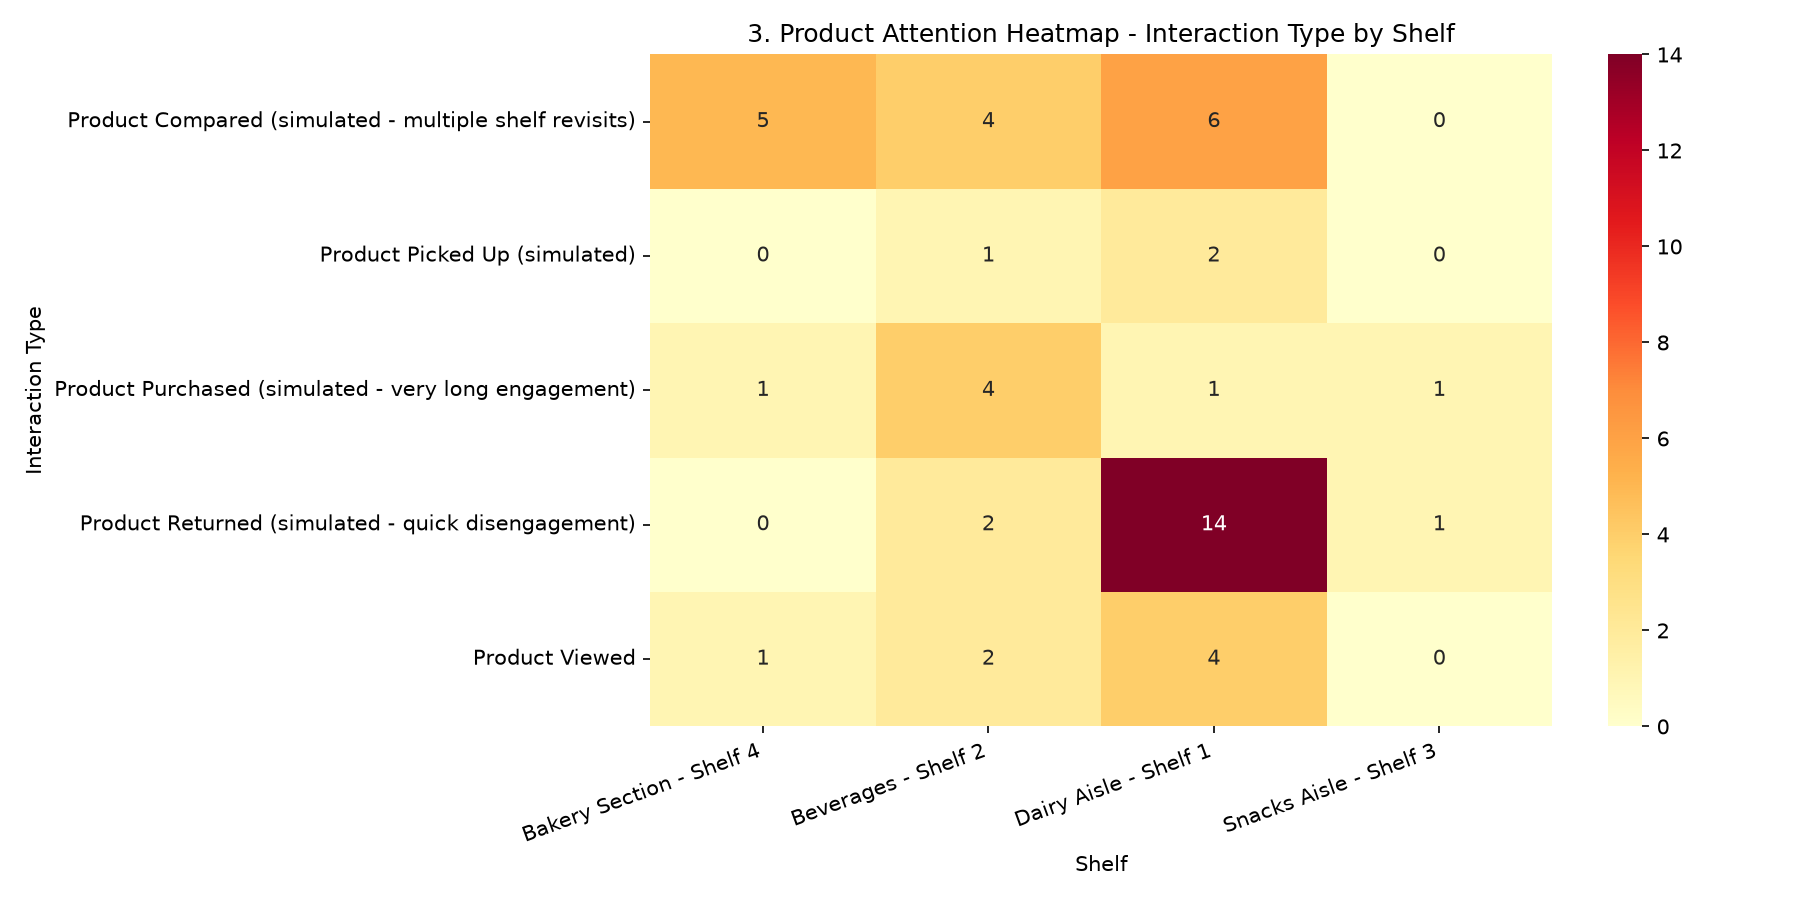
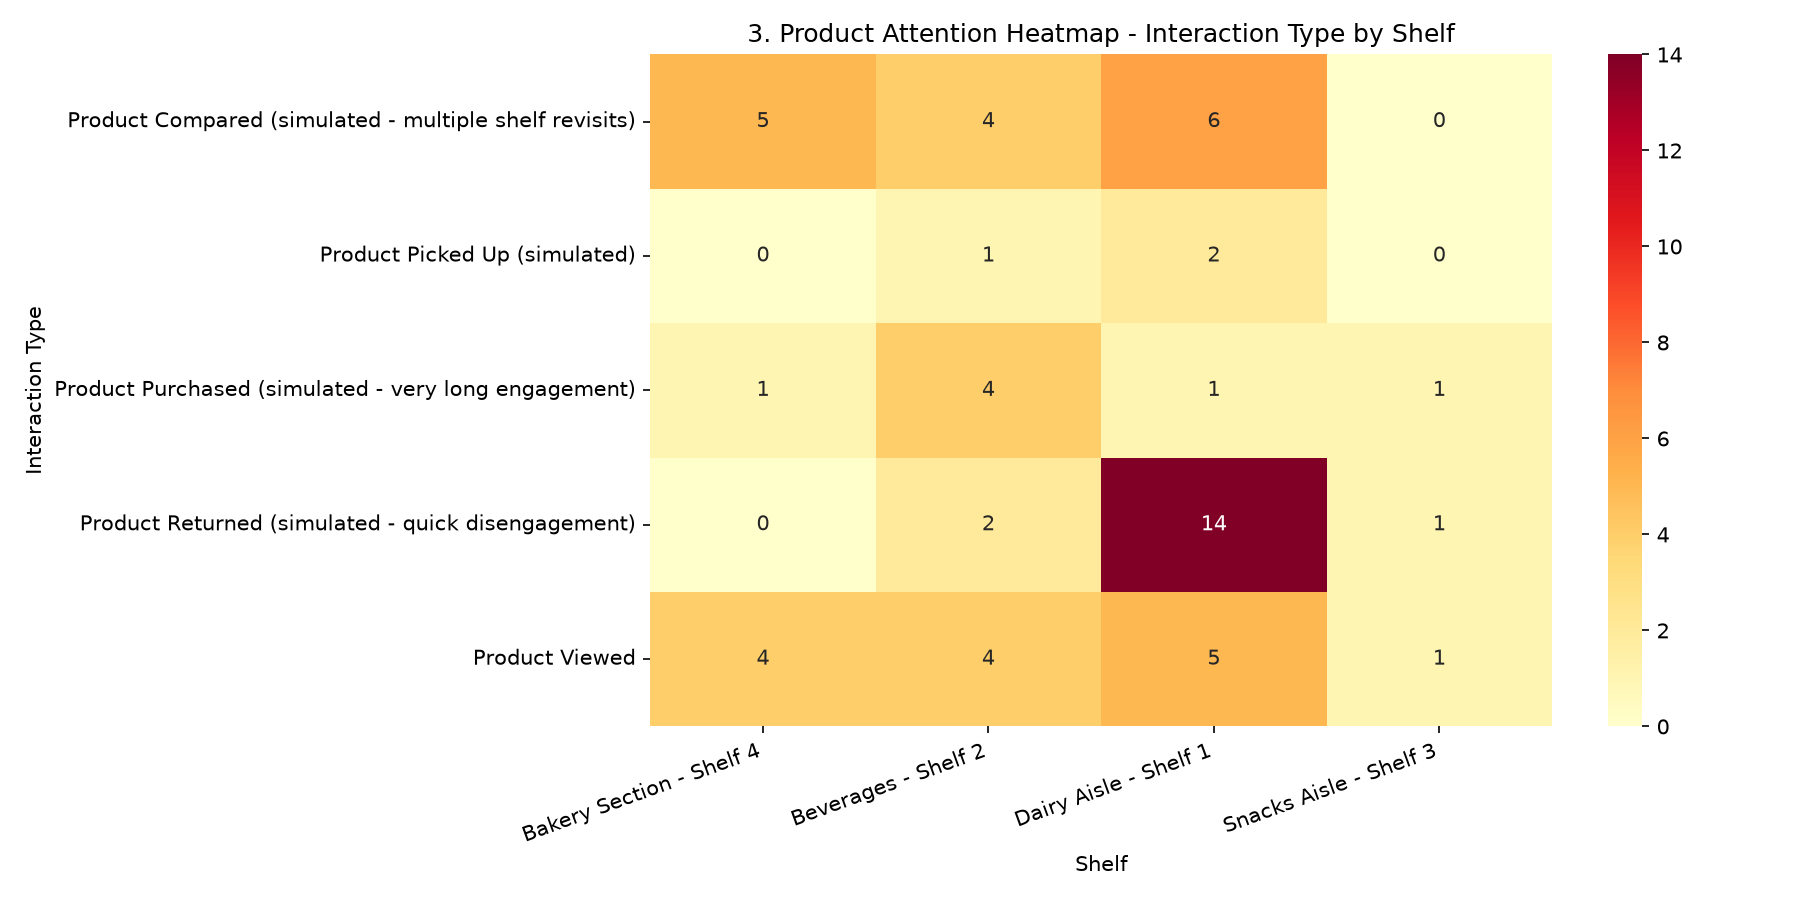
integrate datasets

Changed region(s): [[0.3422, 0.6533, 0.6222, 0.8089], [0.7156, 0.6533, 0.8711, 0.8089]]

diff --git a/Backend/unified_tracking_dataset.py b/Backend/unified_tracking_dataset.py
@@ -1,0 +1,109 @@
+import cv2
+from ultralytics import YOLO
+import time
+from database import SessionLocal, engine, Base
+import models
+
+import sys
+
+VIDEO_PATH = sys.argv[1] if len(sys.argv) > 1 else "test_images/retail_traffic_sample.mp4"
+
+repeat_visits = {}
+journey_sequence = {}
+
+db_init = SessionLocal()
+shelves_in_db = db_init.query(models.Shelf).all()
+db_init.close()
+
+NUM_ZONES = min(len(shelves_in_db), 5) if len(shelves_in_db) > 0 else 3
+zone_to_shelf = {}
+if NUM_ZONES > 0 and len(shelves_in_db) > 0:
+    for i in range(NUM_ZONES):
+        zone_to_shelf[f"Zone {i}"] = shelves_in_db[i].shelf_name
+else:
+    NUM_ZONES = 3
+    zone_to_shelf = {"Zone 0": "Zone A", "Zone 1": "Zone B", "Zone 2": "Zone C"}
+
+print(f"Dataset-based analysis. Mapping {NUM_ZONES} zones to shelves: {zone_to_shelf}")
+
+Base.metadata.create_all(bind=engine)
+
+yolo_model = YOLO("yolov8n.pt")
+
+cap = cv2.VideoCapture(VIDEO_PATH)
+if not cap.isOpened():
+    print(f"Error: Could not open {VIDEO_PATH}")
+    exit()
+
+frame_width = int(cap.get(cv2.CAP_PROP_FRAME_WIDTH))
+
+def get_zone(center_x, frame_width):
+    zone_index = min(int(center_x / (frame_width / NUM_ZONES)), NUM_ZONES - 1)
+    return zone_to_shelf.get(f"Zone {zone_index}", f"Zone {zone_index}")
+
+print("Processing dataset video for attention/zone analysis...")
+
+person_state = {}
+frame_num = 0
+
+while True:
+    ret, frame = cap.read()
+    if not ret:
+        print("End of video.")
+        break
+    frame_num += 1
+
+    results = yolo_model.track(frame, persist=True, verbose=False, classes=[0])
+
+    if results[0].boxes.id is not None:
+        for box, track_id in zip(results[0].boxes.xyxy, results[0].boxes.id):
+            x1, y1, x2, y2 = box.tolist()
+            center_x = (x1 + x2) / 2
+            center_y = (y1 + y2) / 2
+            track_id = int(track_id)
+            zone = get_zone(center_x, frame_width)
+            # Simulate "attentive" if facing forward-ish; for dataset video, treat as Attentive by default
+            attention_status = "Attentive"
+
+            db_pos = SessionLocal()
+            point = models.PositionPoint(person_track_id=track_id, x=int(center_x), y=int(center_y))
+            db_pos.add(point)
+            db_pos.commit()
+            db_pos.close()
+
+            if track_id not in person_state:
+                person_state[track_id] = {"zone": zone, "attention": attention_status, "state_start_time": time.time(), "frame_start": frame_num}
+            else:
+                prev = person_state[track_id]
+                if prev["zone"] != zone:
+                    duration_frames = frame_num - prev["frame_start"]
+                    duration = duration_frames / 30  # approx seconds assuming 30fps
+
+                    db = SessionLocal()
+                    record = models.AttentionRecord(
+                        person_track_id=track_id, zone=prev["zone"],
+                        attention_status=prev["attention"], duration_seconds=int(duration)
+                    )
+                    db.add(record)
+                    db.commit()
+                    db.close()
+
+                    key = (track_id, prev["zone"])
+                    repeat_visits[key] = repeat_visits.get(key, 0) + 1
+                    print(f"Person {track_id}: in {prev['zone']} for ~{duration:.1f}s (visit #{repeat_visits[key]})")
+
+                    if duration >= 2:
+                        db2 = SessionLocal()
+                        interaction = models.ProductInteraction(
+                            person_track_id=track_id, shelf_zone=prev["zone"],
+                            interaction_type="Product Viewed", duration_seconds=int(duration)
+                        )
+                        db2.add(interaction)
+                        db2.commit()
+                        db2.close()
+
+                    person_state[track_id] = {"zone": zone, "attention": attention_status, "state_start_time": time.time(), "frame_start": frame_num}
+
+cap.release()
+print(f"\nDataset analysis complete. Processed {frame_num} frames, {len(person_state)} unique people.")
+print("Data saved to database - now generating updated scores/heatmaps/reports from this dataset.")
